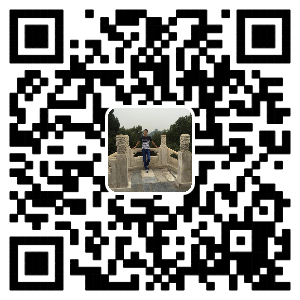
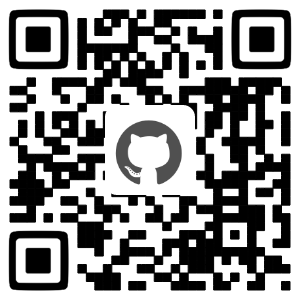
更换 github 二维码图片

diff --git a/index.html b/index.html
@@ -43,7 +43,7 @@
                 <hr>
                 <ul class="info-list">
                     <li>
-                        <label class="left-label">手机</label><span class="label-value">177XXXXXXXX</span></li>
+                        <label class="left-label">手机</label><span class="label-value">177XXXX9347</span></li>
                     <li>
                         <label class="left-label">微信</label><span class="label-value">djw934738009</span></li>
                     <li>
@@ -82,7 +82,7 @@
             </div>
 
             <div class="code info-unit">
-                <h2 class="info-header"><i class="iconfont">&#xec10;</i> <span class="info-title">github</span></h2>
+                <h2 class="info-header"><i class="iconfont">&#xec10;</i> <span class="info-title">GitHub</span></h2>
                 <hr>
                 <div class="weixin">
                     <img src="static/image/github.png" alt="">
